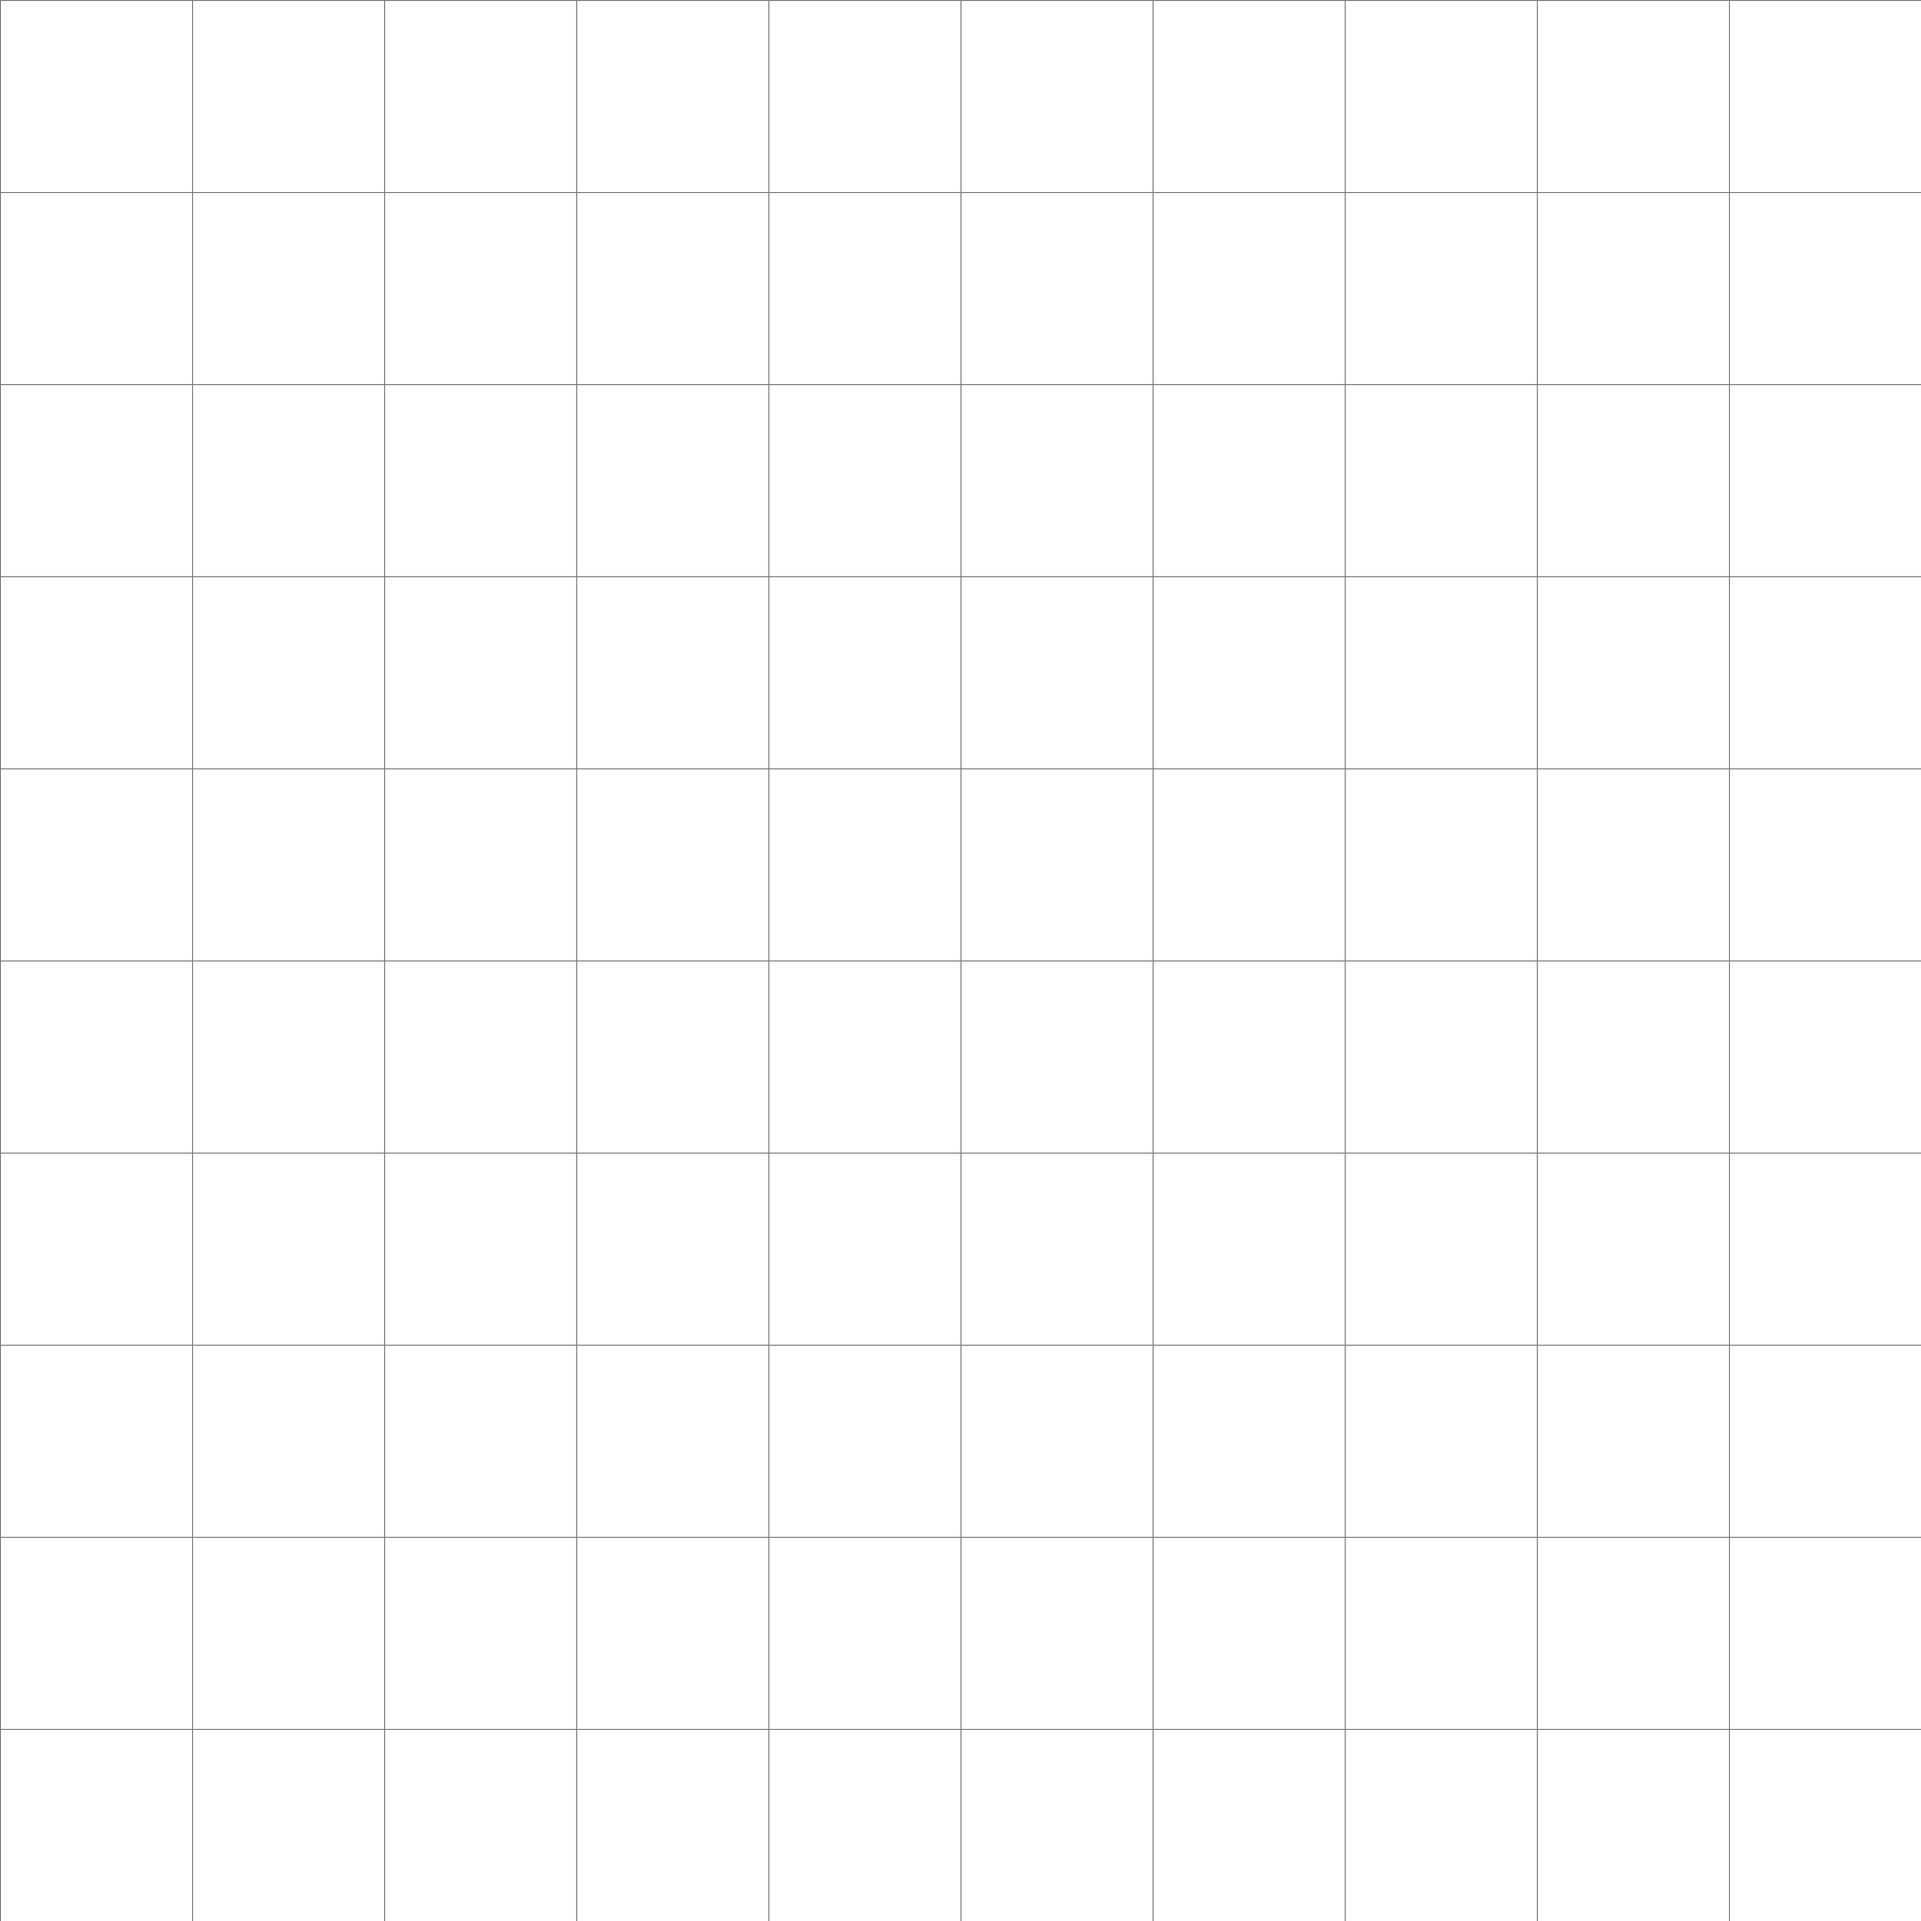
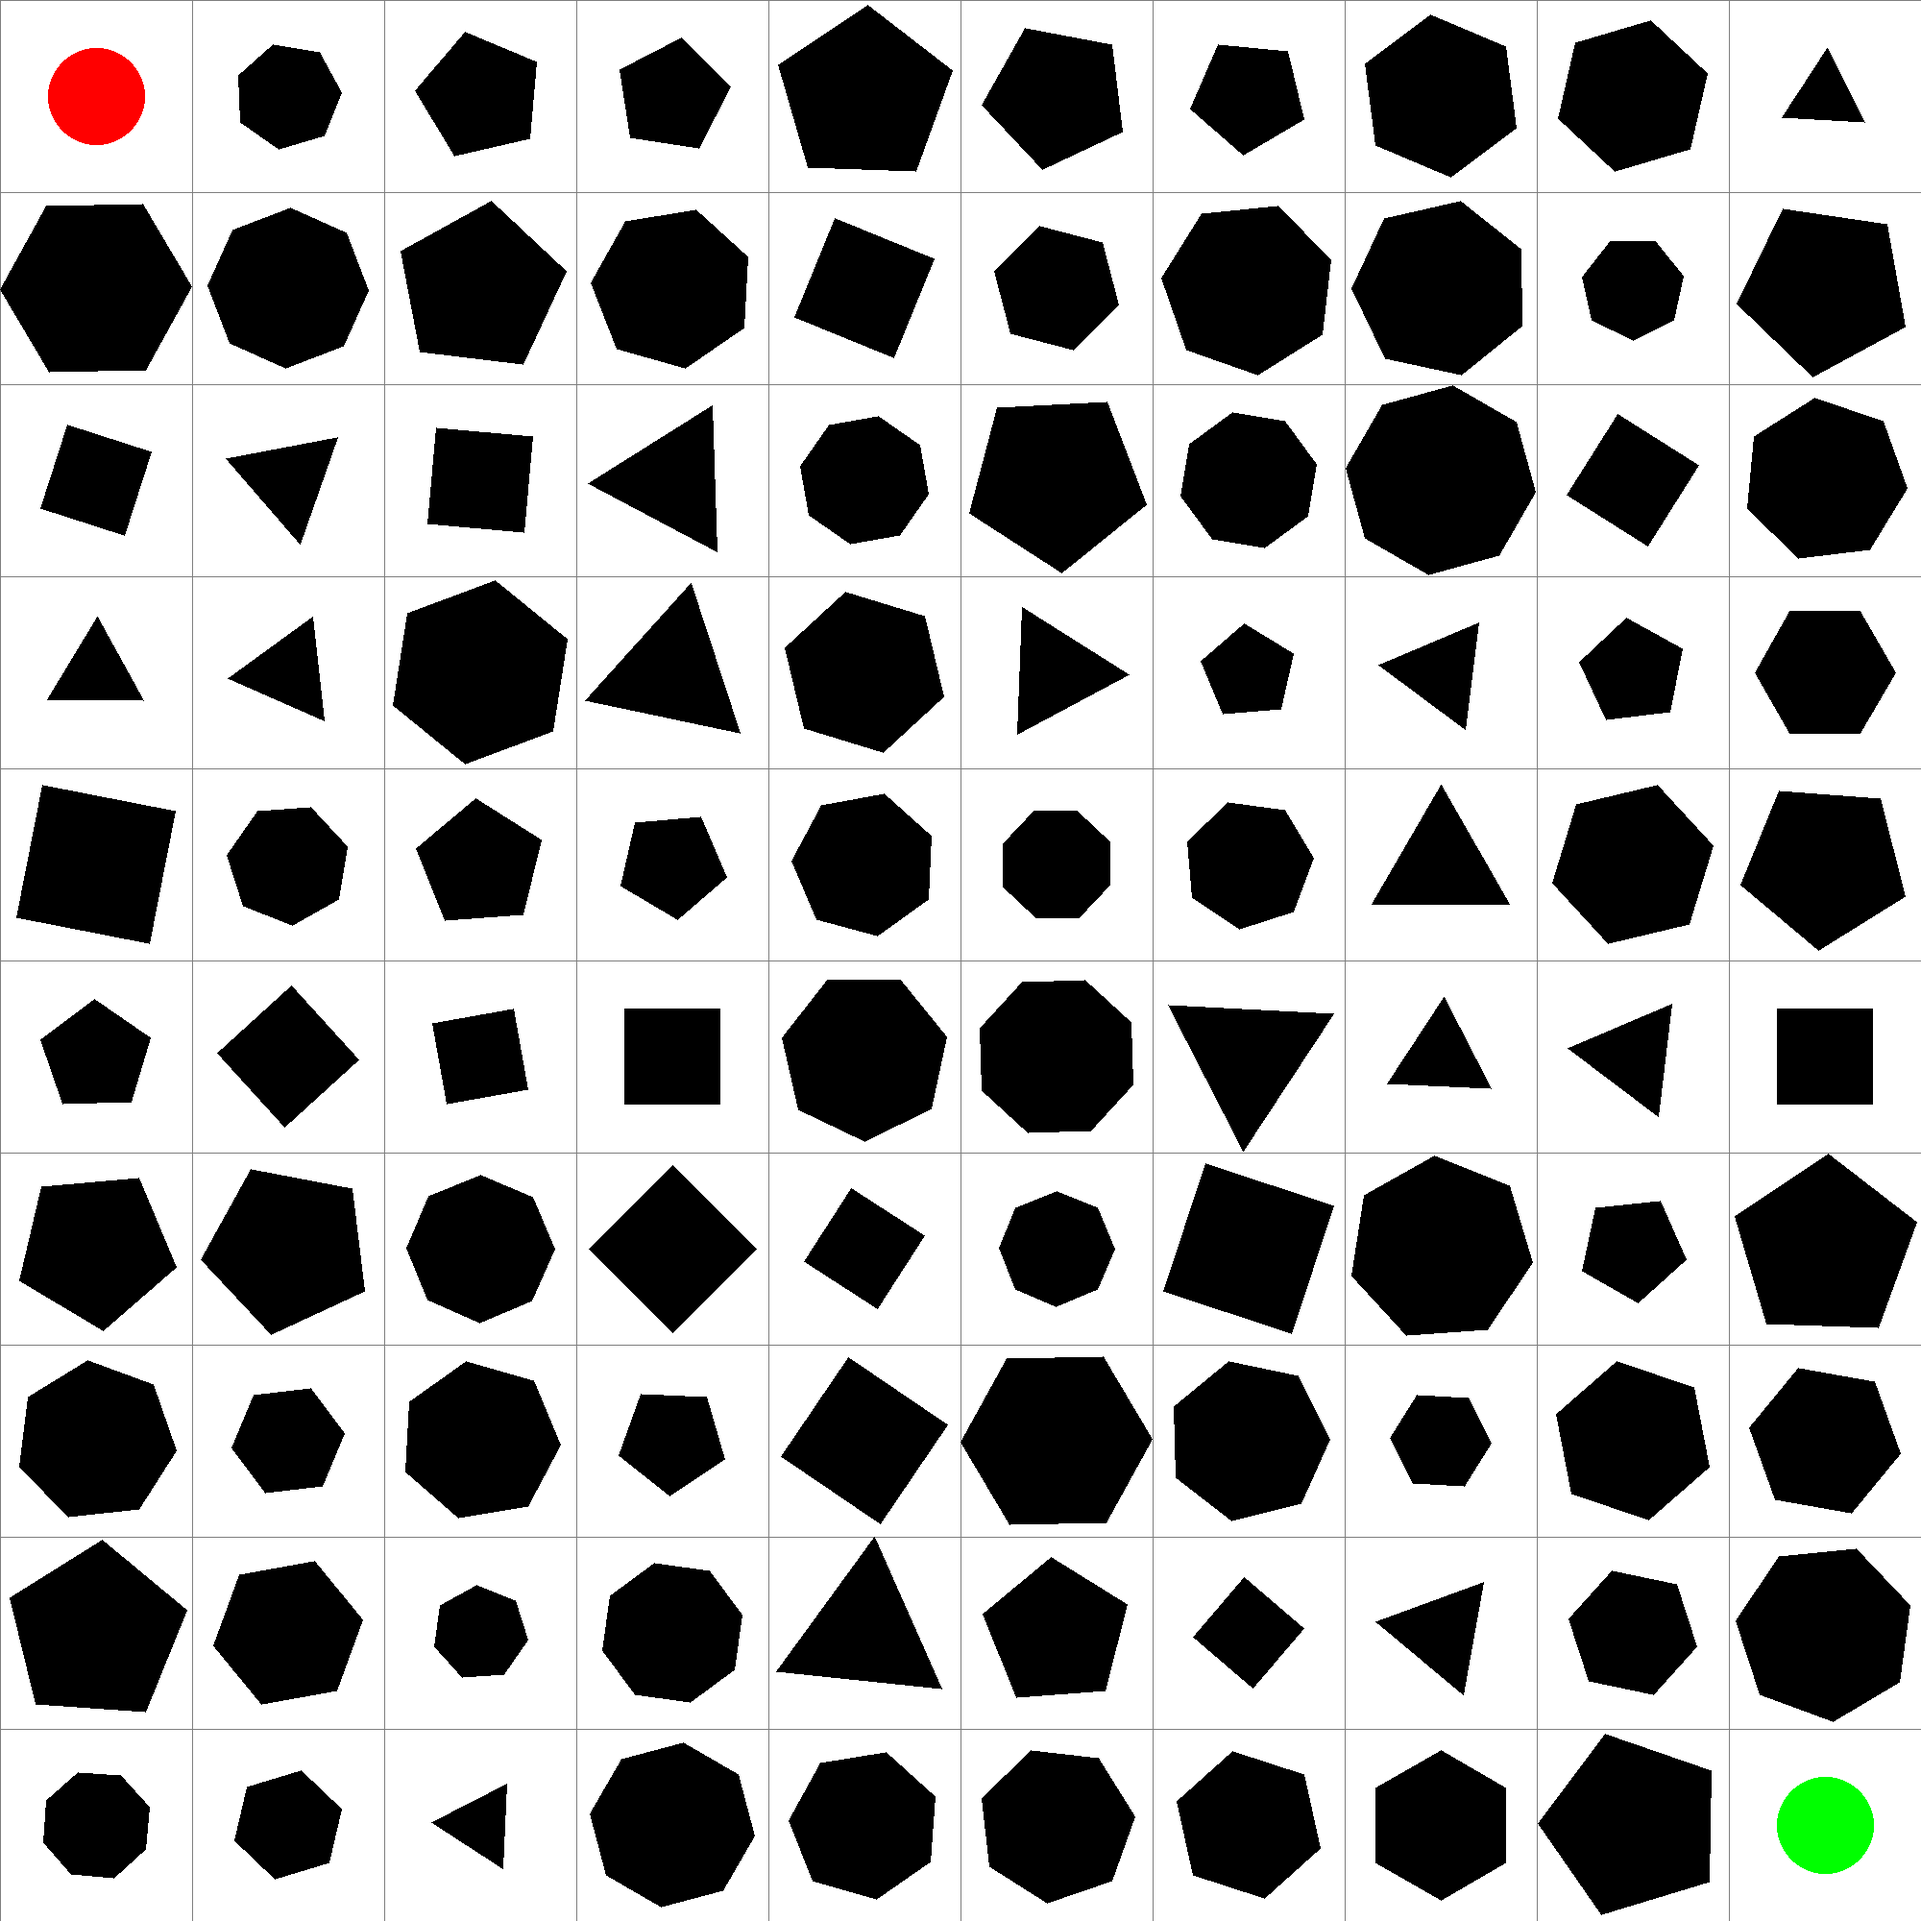
GenerateGrid generates grid with shapes, including actor and goal shape. Grid dimensions and elements are  outputted to grid.txt

diff --git a/GenerateGrid.py b/GenerateGrid.py
@@ -22,6 +22,28 @@ def Initialize(grid_size,step_count):
         line = ((x_start, y), (x_end, y))
         im.line(line, fill="#7f7f7f")
 
+    shapes=""#string will be represent grid structure
+
+    for y in range(0, img.height, step_size):
+        for x in range(0, img.width, step_size):
+            if(x==0 and y==0):
+                #draw agent
+                im.ellipse((step_size/4, step_size/4, 3*step_size/4, 3*step_size/4), fill="#ff0000", outline=None)
+                shapes="0,"#0 is agent cell
+            elif(x==(img.width-step_size) and y==(img.height-step_size)):
+                #draw goal
+                im.ellipse((img.width-3*step_size/4, img.height-3*step_size/4, img.width-step_size/4, img.height-step_size/4), fill="#00ff00", outline=None)
+                shapes+="1,"#1 is goal cell
+            else:
+                num_sides=random.randint(3,8)#would have to manually change this in the code if we will be generating different kinds of shapes
+                shapes+=str(num_sides)+","
+                im.regular_polygon((step_size/2+x,step_size/2+y,random.randint(math.ceil(step_size/4), math.floor(step_size/2))), num_sides, rotation=random.randint(0,math.floor(360/num_sides)), fill="#000000", outline=None)
+        shapes=shapes[:-1]+'\n'
+    shapes=str(grid_size)+'\n'+shapes
+    shapes=str(step_count)+'\n'+shapes[:-1]
+    f = open("grid.txt", "w")
+    f.write(shapes)#file format in readme
+
     img.save("grid.png", "PNG")#saves the image, later on will add code to draw shapes in each cell
 
 if __name__ == '__main__':
